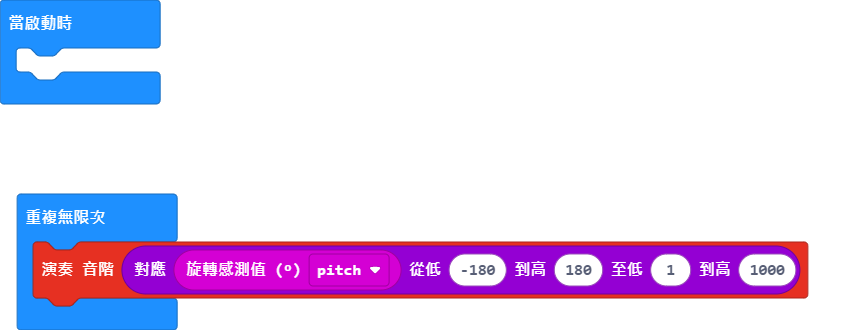
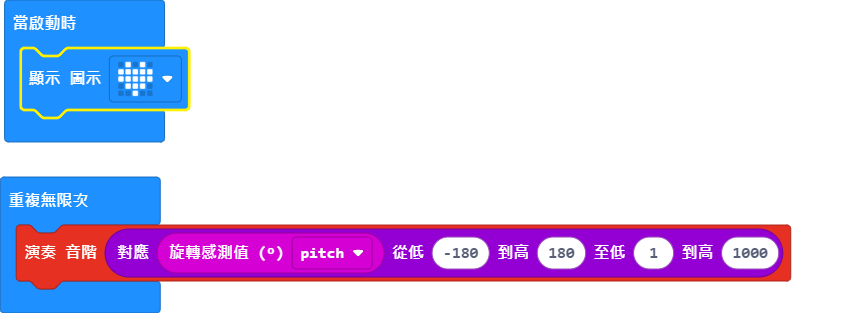
更新 main.blocks, main.ts

Changed region(s): [[0.0, 0.5463, 0.9561, 1.0], [0.0, 0.0, 0.2467, 0.4601]]

diff --git a/main.ts b/main.ts
@@ -1,3 +1,4 @@
+basic.showIcon(IconNames.Heart)
 basic.forever(function () {
     music.ringTone(Math.map(input.rotation(Rotation.Pitch), -180, 180, 1, 1000))
 })
